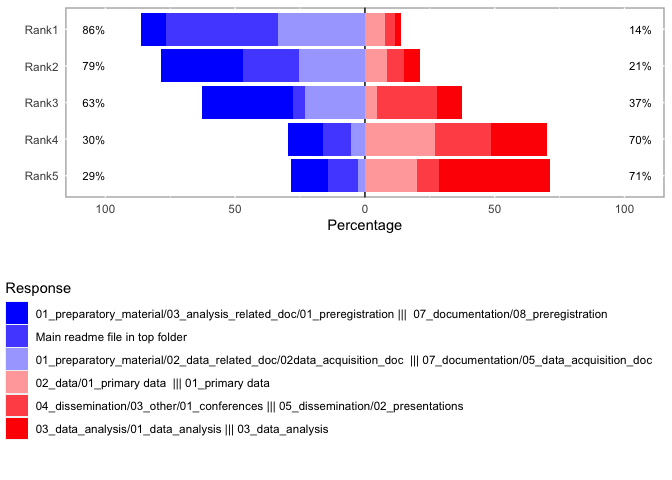
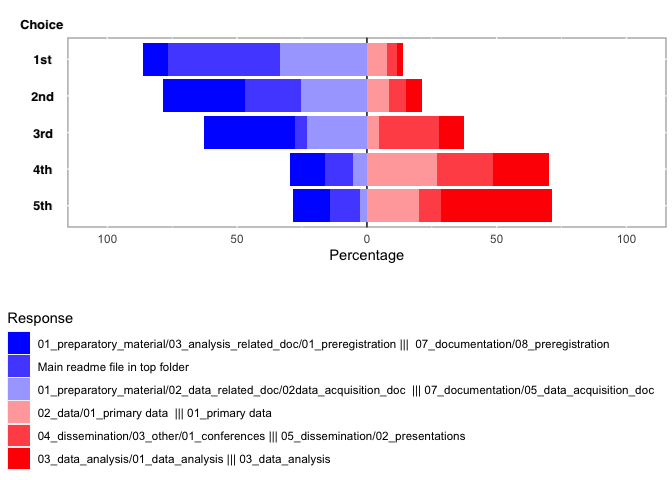
work on text, added keisukes feedback, still need to work on fig 4 and typeset again

Changed region(s): [[0.0312, 0.0, 1.0, 0.5625], [0.0, 0.5938, 0.9688, 1.0]]

diff --git a/text/survey_analysis_report2.md b/text/survey_analysis_report2.md
@@ -20,7 +20,7 @@ While data managers propose to design and follow such an organisation,
 they fail at providing clear recommendations or examples;
 and there is no time specifically assigned to this task in the researcher's work.
 We believe that providing researchers with a commonly accepted folder tree structure template could make a huge difference in promoting data management and research collaboration.
-In this blog, we present the results of an initial survey run in three neuroscientific research consortia (LINK).
+In this blog, we present the results of an initial survey run in three neuroscientific research consortia (LINK), including a new folder structure and its technical implementation in the GIN-tonic application.
 
 
 We collected the feedback from 51 neuroscientists presented with two initial template drafts,
@@ -35,9 +35,9 @@ Researchers from all research domains are now invited to review this draft in a 
 # Introduction
 
 Every day, researchers spend time doing file management on their computers (creating, downloading, naming, moving, saving, copying, reviewing, navigating, searching for, sharing, and deleting files and folders).
-While many different initiatives and tools tried to improve file management (using tags, databases and search algorithms), the use of folder tree structure appeared to be unavoidable and necessary [@dinneenUbiquitousDigitalFile2020].
+While many different initiatives and tools have tried to improve file management (using tags, databases and search algorithms), the use of folder tree structure appeared to be unavoidable and necessary [@dinneenUbiquitousDigitalFile2020].
 In addition, both proponents of reproducible research and data management experts recommend researchers the use of an appropriate folder organizational structure ([@LibraryCarpentryLcfairresearch2019], [@theturingwaycommunityTuringWayHandbook2019]).
-However, only few actually provide examples or attempts to homogenize such a structure (see [@vuorreSharingOrganizingResearch2020] and [@wilsonGoodEnoughPractices2017] for exceptions).
+However, only few actually provide examples or did attempt to bring uniformity in such structures (see [@vuorreSharingOrganizingResearch2020] and [@wilsonGoodEnoughPractices2017] for exceptions).
 
 We -the authors of this blog post- are data managers of different institutions working with neurobiologists, and we teamed up with the NFDI Neuroscience community to develop a new strategy to support researchers with their data management.
 We hypothesize that implementing a hierarchical directory structure using a template could help researchers collaborate on their projects,
@@ -45,11 +45,8 @@ and manage their data and files better.
 In a first step, 
 we designed two templates (see Fig. 1) and a survey to guide our efforts.
 Here, we are presenting the analysis of the survey answers and a novel version of the template according to the received feedback.
-The blog ends by outlining the GIN-tonic application, that brings some technical solution (based on the git submodule technology) to add flexibility and ease of use in the template.
+The blog ends by outlining the GIN-tonic application, that brings some technical solution (based on the git submodule technology) to add flexibility and ease of use to the template.
 
-> *How do you organise your digital files for your research projects ?* 
->
-> I organise my file using the GIN research repository (version 1).
 
 # The survey
 
@@ -72,7 +69,7 @@ In the meantime, we prepared the analysis and finally run it on the final data t
 In general, researchers reacted very positively to the project.
 Surprisingly, about half of the participants preferred one template, while the other half preferred the other one (see Fig. 2,
 participants had to choose one or the other template).
-This preference was highly correlated with the similarity of the template to the structure they presently use (Pearson Chi-square, p−value = 2.23e−06).
+This preference was highly correlated with the similarity of the template to the structure they presently use (Pearson Chi-square, p−value = 2.23e−06, no correction for mulitple tests was performed).
 However, we could not identify any notable effect of career stage or research domain on this preference,
 or any effect of this preference on willingness to use such a template.
 In particular, computer scientists do not seem to differ from wet-lab researchers in these aspects.
@@ -85,7 +82,7 @@ showing that **a too detailed folder structure seems to be rather inconvenient*.
 On the other hand, researchers would navigate the repository to find specific files using similar strategies (Fig. 3),
 suggesting that having a structure can be helpful, and may reduce the time to browse for specific information.
 
-![Fig.3: Folder researchers would search for information about "blindness" status of the experiment design. Rank1 line shows that most people would look first in the main readme file or the preregistration folder.](../50_figures/pulication_ready_figures/fig3.png)
+![Fig.3: Order of folder choice, when researchers would search for information about the "blindness" status of the experiment design. When picking a folder as their first to fifth choice (y axis), researchers would mostly choose the main readme file or the preregistration folder first, while the majority of them would in the primary data or analysis folder last.](../50_figures/pulication_ready_figures/fig3.png)
 
 ## Issues
 
@@ -115,47 +112,64 @@ Data management principles recommend (1) to keep all files related to a project 
 and (2) to manage data and code differently (this allows different version control system, as well as independent sharing and reusing, of data and code).
 We designed a template that follows these principles, 
 but added some recommendations and technical solutions 
-in order to permit users to have cross-project and experiment-level organisations of their files.
+in order to permit users to have laboratory and experiment-level organisations of their files.
+
+```{}
+Temptative definition of organisation levels:
+
+- Research project: The unit of research that address a specific research question. It can mostly be deliminated by the team involved and typically produce a unique research publication.
+
+- Experiment: The unit of research involving a statistically independent dataset analysed together. I mostly produce one figure. Different experiments typically involve different methods, or different animals and could be ending in different publication. 
+
+- Laboratory: Any organisation that involves different projects. It can also be for a unique person, or for a consortium of laboratories.
+
+```
 
 ## The experiment level
 
 
 We propose to keep data and code in different first level folder, 
 and to create several new folders (in the different first level folders) for each new experiment. 
-This could be easily automated in your language of choice,
-and we are working on bringing this functionality to GIN-tonic (see below).
-In addition, some of these new folders could also have their own templates.
-For instance, you could use a specific BIDS standard template for some imaging experiments, while others will use a different template.
+In addition, some of these new folders may also follow their own templates.
+For instance, some researchers could use a specific BIDS standard template for some imaging experiments, while others will use a different template.
 
 
 
-## The project and cross-project level
+## The project and laboratory level
 
-We propose to mirror some folders (for shared figures, report and conference, and manuscripts) both in the project folder and in a different folder (see Fig. 4).
-In addition, we propose to add a `labcommons` folder that could be shared and synchronised between all lab members using DropBox-like cloud technologies.
-This all will be quite difficult to set up manually (using alias folders for example), but using the git submodule technology in GIN-tonic, it can be automated (see below).
+We propose to share some sub-folders independently (for shared figures, report and conference, and manuscripts) in order to be able to have them in the project folder or in a different folder structure merging sub-folders coming from different projects. One could then create a folder containing all manuscripts prepared in the lab (see Fig. 4).
+In addition, we propose to add a `labcommons` folder that could be shared and synchronized between all lab members.
+
 
 ![Fig.4: Folder structure developed after analysing the survey. The purple point and arrows indicates that these folders are mirrored in different folder structures (using the gi submodule technology). One can for instance access (and update) the same files looking in the project manuscript folder, or by navigating to the manuscripts folder, and then to the project. For each experiments, additional folders will be created automatically in different folders.](../50_figures/pulication_ready_figures/fig4.png)
 
-# GIN-tonic implementation
+# Sharing and automation
 
-GIN is the G-Node infrastructure, which brings similar functionalities as GitLab or GitHub, based on git and git annex technologies.
+The creation of different sub-folders for one experiment could easily be  automated in your language of choice. An automation would make sure that the folder names are kept consistent for each experiment.
+
+Working on the laboratory level is more complex. If one wants to have cross-folder organisation locally, one can work with "alias folder", where the user can create shortcuts to specific folders using a different organisation. The data exists only once and there is no issues of synchronization. The expected use case is different though, and we expect some users to have the data organized by projects and other users having it organised by file type. This requires to share sub-folders independently and set the different instance of these sub-folders to be linked together. This is pretty complex to set up using common cloud technology (dropbox-like) that cannot be easily automated. As explained below, the open source GIN-tonic tool allows to set it up automatically using the git submodule technology.
+
+## GIN-tonic implementation
+
+GIN is the G-Node infrastructure, which brings similar functionalities as GitLab or GitHub together with large file support and data publication. It is based on gogs, git and git annex technologies.
 We are building a `go` extension that will facilitate some administrative tasks and automate some complex workflow linked to the use of the template.
 We could not resist calling it tonic, in reference to the vigor added to the GIN tool.
-In gin-tonic, sub-folders can be submodules,
-meaning they can be synchronised, shared and published independently of the other sub-folders,
+In GIN-tonic, sub-folders can be submodules,
+meaning they can be synchronized, shared and published independently of the other sub-folders,
 while looking completely normal on one's computer.
 A mock-up presentation for a lab with 2 projects is available at https://gin.g-node.org/testorga.
 
 The tonic application creates a new project repository,
-following the discussed research repository template with some folders being created as submodules (see Fig. 4). These submodules are also added to some lab-level repository
-In addition, a labcommons folder that contains files relevant for the whole lab will be added to all projects.
-This means that for example a manuscript draft can be available at two location on ones computer, once inside a clone (cloning is similar to downloading but while keeping a link with the server version) of the project repository, and once inside a clone of the lab-level manuscript repository. Changes in either places can be synchronised to the unique version available on the server.
+following the discussed research repository template with some folders being created as submodules (see Fig. 4). 
+These submodules are also added automatically to some lab-level repository, allowing laboratory level organisation of the files.
+In addition, a `labcommons` folder that contains files relevant for the whole lab will be added to all projects.
+This means that for example a manuscript draft can be available in the project folder on the student computer, while the same data will be available in the lab_manuscript folder on the PI computer. 
+File modification made in either places can be synchronized to one unique version available on the server (see Fig. 4).
 
-On the other hand, the tonic application will also be able to add submodules and folders to the parent repository for each experiment performed. A data submodule will be created, so that the data can be curated and published independently of the other experiments, while other folders will be created (). A synchronisation of the computer version will then bring these changes on the local version, ready to be filled with data, code, and figures.
+On the other hand, the tonic application will also be able to add submodules and folders to the parent repository for each experiment performed. A data submodule also will be created, so that the data can be curated and published independently of the other experiments, while other normal folders will be created (see Fig. 4). A synchronisation of the computer version will then bring these changes on the local version, showing the new folders ready to be filled with data, code, and figures.
 
-Last but not least, the parent repository will come with a synchronization script that will make these synchronisation as easy as a double click. Users with git knowledge will be able to create their own workflow, as git and git annex are still the background of this technology.
-Besides the GIN-tonic tooling we currently also implement this concept for GitLab-based plattforms, called Lab-tonic.
+Last but not least, parent repositories will come with a synchronization script that will make these synchronization events as easy as a double click. Users with git knowledge will be able to create their own workflow, as git and git annex are still the background of this technology.
+Besides the GIN-tonic tooling, we are also working on the implementation of the tonic concept for GitLab-based platforms (that is, using git and git-LFS), called LAB-tonic.
 
 
 
